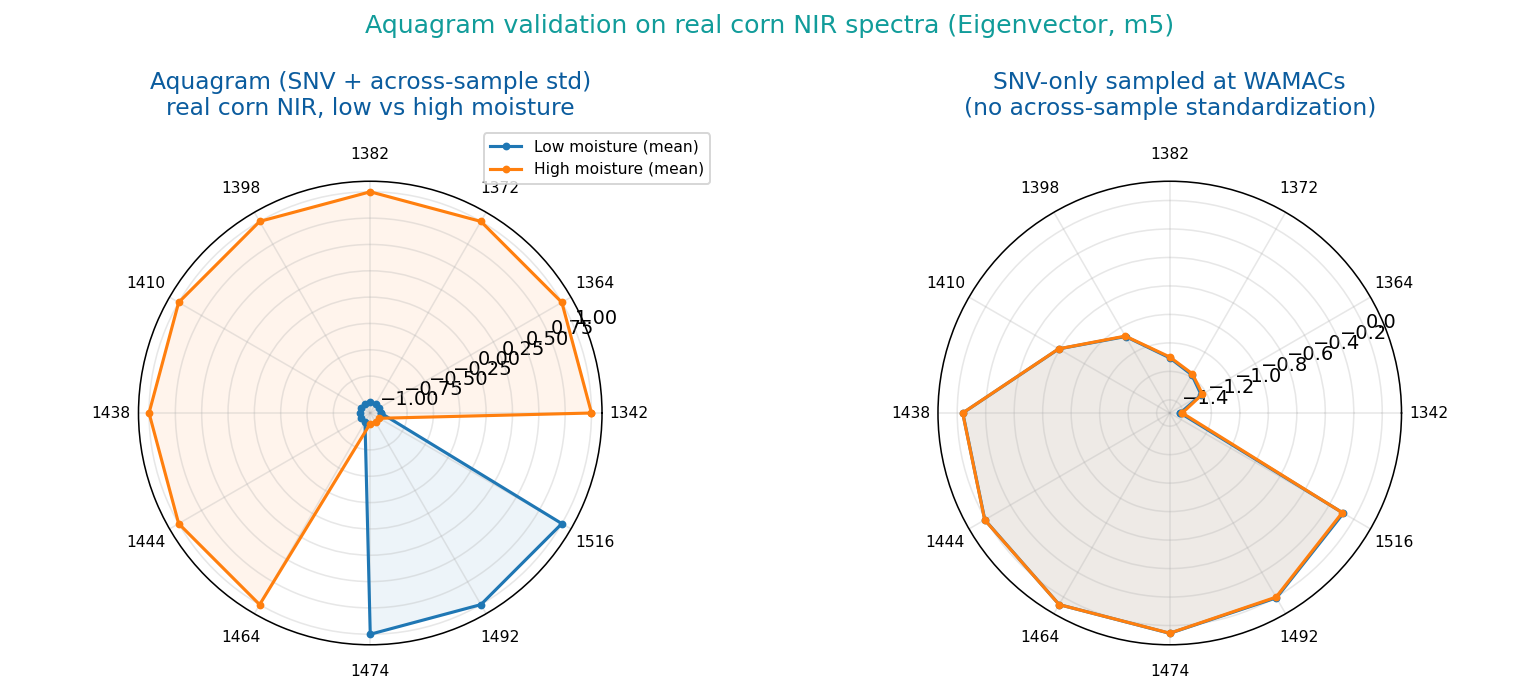
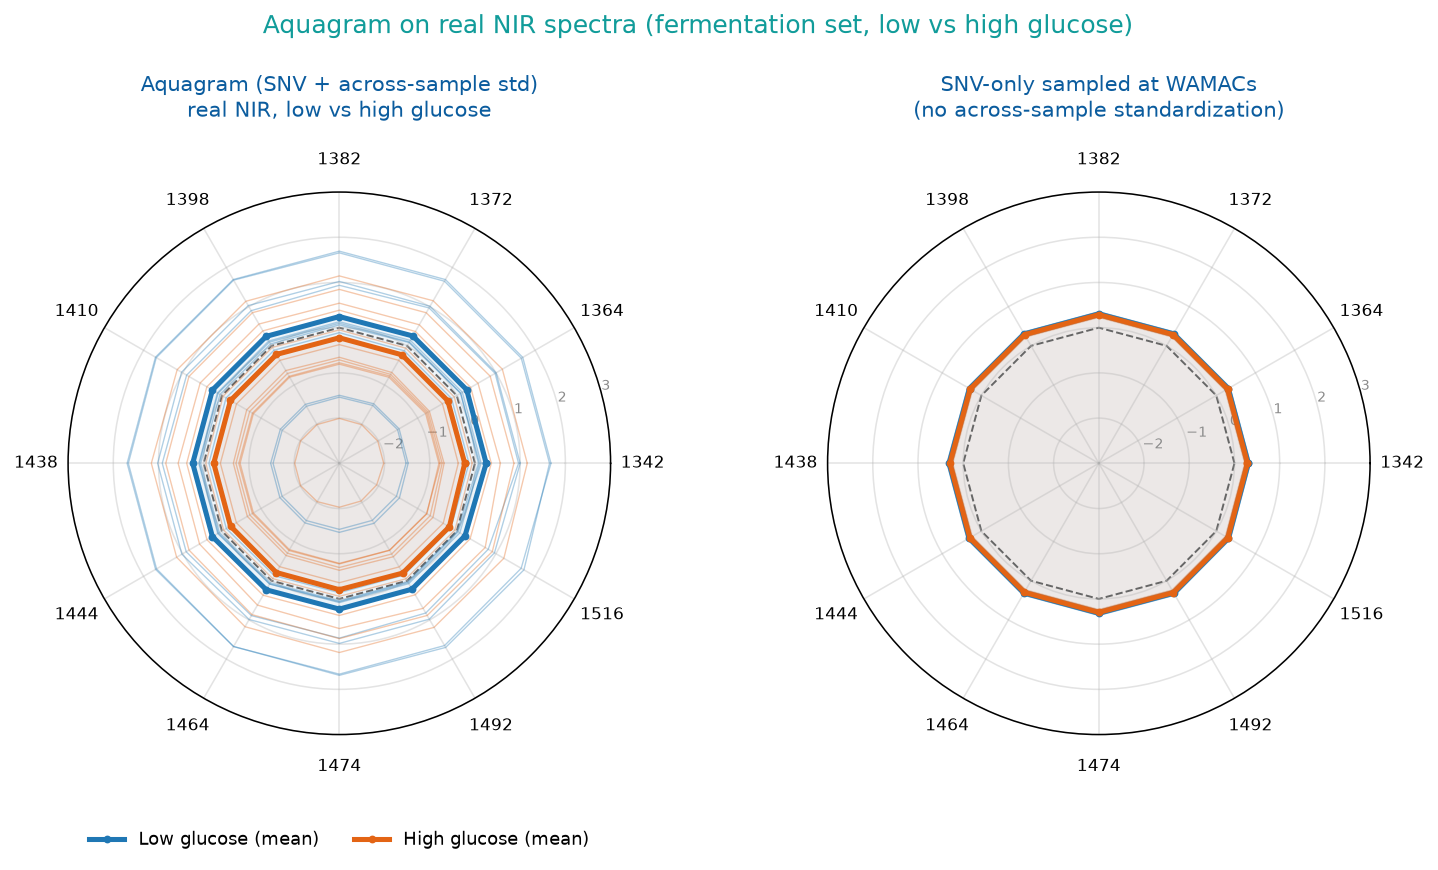
Fix overlapping labels in Library & Aquagram tutorial demo charts
- demo_library.png: regenerated from the real 9-sugar library search
  (unknown_glucose vs sugars_nir.speclib) as a clean horizontal bar chart —
  x-axis 0.65-1.00 so every bar shows, value labels at bar ends, category
  names no longer overlap the numbers.
- demo_aquagram.png: the radial tick labels were crammed onto one spoke and
  unreadable. Regenerated from a real WAMACs-covering NIR set (chemotools
  'fermentation', 21 spectra split by glucose) with readable radial labels
  (integer rings on one grey spoke), WAMAC labels around the ring, bold group
  means over faint individual samples, and a shared radial scale. Tutorial
  captions (zh/en) updated corn -> fermentation to match the data actually
  used for the figure. Added docs/regen_aquagram_demo.py to reproduce it
  offline (pip install chemotools).
- validate_aquagram_real_nir.py: same readable radar layout (per-sample lines
  + group means, radial labels on the 15-deg spoke) for the corn validation
  figure when run with network.

Docs-only; no package version change.

Claude-Session: https://claude.ai/code/session_01RqntGkiqyW9Ncv4yJmwF8A

diff --git a/docs/orange.html b/docs/orange.html
@@ -375,7 +375,7 @@ python -m Orange.canvas</pre>
   <div class="kicker">Live demo · 真實數據跑出結果</div>
   <h2>用內建範例資料實際跑一遍</h2>
   <p class="lead">下面所有圖與數字都是用 repo 內的<b>真實範例資料</b>（<code>examples/sugars_nir.speclib</code>
-     ——9 種糖類／添加物的 NIR 光譜、3 個未知樣品）與真實玉米 NIR，實際用這些 widgets 的演算法跑出來的，
+     ——9 種糖類／添加物的 NIR 光譜、3 個未知樣品）與真實發酵液 NIR，實際用這些 widgets 的演算法跑出來的，
      不是示意圖。你在自己電腦照做會得到一樣的結果。</p>
 
   <div class="wsec">
@@ -419,9 +419,9 @@ python -m Orange.canvas</pre>
   </div>
 
   <div class="wsec">
-    <h3>⑤ Aquagram → 真實玉米 NIR 水光譜雷達圖</h3>
-    <p class="lead">用真實玉米近紅外光譜，在 12 個 WAMACs 取正規化吸光度畫成 aquagram（雷達圖）。</p>
-    <img src="demo_aquagram.png" alt="real corn NIR aquagram" style="width:min(560px,100%);display:block;margin:auto;border-radius:10px;border:1px solid var(--line);">
+    <h3>⑤ Aquagram → 真實發酵液 NIR 水光譜雷達圖</h3>
+    <p class="lead">用真實發酵液近紅外光譜（依葡萄糖濃度分低/高兩組），在 12 個 WAMACs 取正規化吸光度畫成 aquagram（雷達圖）。</p>
+    <img src="demo_aquagram.png" alt="real fermentation NIR aquagram" style="width:min(560px,100%);display:block;margin:auto;border-radius:10px;border:1px solid var(--line);">
   </div>
 </section>
 

diff --git a/docs/orange_en.html b/docs/orange_en.html
@@ -384,7 +384,7 @@ python -m Orange.canvas</pre>
   <h2>Run it on the bundled example data</h2>
   <p class="lead">Every figure and number below was produced by actually running these widgets'
      algorithms on the repo's <b>real example data</b> (<code>examples/sugars_nir.speclib</code> — NIR
-     spectra of 9 sugars/additives, 3 unknown samples) and real corn NIR — not mock-ups. Do the same
+     spectra of 9 sugars/additives, 3 unknown samples) and real fermentation NIR — not mock-ups. Do the same
      on your machine and you get the same results.</p>
 
   <div class="wsec">
@@ -428,9 +428,9 @@ python -m Orange.canvas</pre>
   </div>
 
   <div class="wsec">
-    <h3>⑤ Aquagram → real corn-NIR water aquagram</h3>
-    <p class="lead">Real corn near-infrared spectra: normalized absorbance at the 12 WAMACs drawn as an aquagram (radar plot).</p>
-    <img src="demo_aquagram.png" alt="real corn NIR aquagram" style="width:min(560px,100%);display:block;margin:auto;border-radius:10px;border:1px solid var(--line);">
+    <h3>⑤ Aquagram → real fermentation-NIR water aquagram</h3>
+    <p class="lead">Real fermentation near-infrared spectra (split into low vs high glucose): normalized absorbance at the 12 WAMACs drawn as an aquagram (radar plot).</p>
+    <img src="demo_aquagram.png" alt="real fermentation NIR aquagram" style="width:min(560px,100%);display:block;margin:auto;border-radius:10px;border:1px solid var(--line);">
   </div>
 </section>
 

diff --git a/orange-spectra/validation/validate_aquagram_real_nir.py b/orange-spectra/validation/validate_aquagram_real_nir.py
@@ -83,30 +83,61 @@ for b, hm, lm in zip(WAMACS, high_mean, low_mean):
 print(f"\nMost separated band: {WAMACS[int(np.argmax(np.abs(sep)))]} nm "
       f"(Δ={sep[int(np.argmax(np.abs(sep)))]:+.2f})")
 
-# ---- Radar plot (classic aquagram) ----
-def radar(ax, coords, labels, names, title):
-    n = len(labels)
-    ang = np.linspace(0, 2*np.pi, n, endpoint=False)
-    ang = np.concatenate([ang, ang[:1]])
-    for row, name in zip(coords, names):
-        vals = np.concatenate([row, row[:1]])
-        ax.plot(ang, vals, marker="o", ms=3, lw=1.6, label=name)
-        ax.fill(ang, vals, alpha=0.08)
-    ax.set_xticks(ang[:-1]); ax.set_xticklabels([str(int(l)) for l in labels], fontsize=8)
-    ax.set_title(title, color="#0b5c9e", pad=16)
-    ax.grid(alpha=.3)
+# ---- Radar plot (classic aquagram over the 40 individual samples) ----
+# aggregate SNV coords over the same 40 samples for the comparison panel
+snv_agg = aquagram_coordinates(many, normalization="snv")
 
-fig, axes = plt.subplots(1, 2, figsize=(11, 5), subplot_kw=dict(polar=True))
-radar(axes[0], results["aquagram"]["values"], WAMACS,
-      results["aquagram"]["names"], "Aquagram (SNV + across-sample std)\nreal corn NIR, low vs high moisture")
-# also show snv version for comparison
-radar(axes[1], results["snv"]["values"], WAMACS,
-      results["snv"]["names"], "SNV-only sampled at WAMACs\n(no across-sample standardization)")
-axes[0].legend(loc="upper right", bbox_to_anchor=(1.25, 1.12), fontsize=8)
+
+def radar(ax, coords, labels, title, rlim, n_low):
+    """Plot each sample as a thin line (blue=low, orange=high moisture) plus a
+    bold group mean, with readable radial tick labels on one clear spoke."""
+    n = len(labels)
+    ang = np.linspace(0, 2 * np.pi, n, endpoint=False)
+    angc = np.concatenate([ang, ang[:1]])
+    for i, row in enumerate(coords):
+        col = "#1f77b4" if i < n_low else "#E36414"
+        vals = np.concatenate([row, row[:1]])
+        ax.plot(angc, vals, lw=0.7, color=col, alpha=0.35, zorder=2)
+    for grp, col, lab in ((coords[:n_low], "#1f77b4", "Low moisture (mean)"),
+                          (coords[n_low:], "#E36414", "High moisture (mean)")):
+        m = np.concatenate([grp.mean(0), grp.mean(0)[:1]])
+        ax.plot(angc, m, lw=2.6, color=col, marker="o", ms=3, label=lab, zorder=4)
+        ax.fill(angc, m, color=col, alpha=0.08, zorder=1)
+    ax.plot(angc, np.zeros_like(angc), color="#666", lw=1.0, ls="--", zorder=1)
+    ax.set_xticks(ang)
+    ax.set_xticklabels([str(int(l)) for l in labels], fontsize=8.5)
+    ax.tick_params(axis="x", pad=6)
+    # readable radial axis: integer rings only, labels on the 0° spoke, small grey
+    ax.set_ylim(rlim)
+    lo, hi = int(np.floor(rlim[0])), int(np.ceil(rlim[1]))
+    ax.set_yticks(list(range(lo, hi + 1)))
+    ax.set_rlabel_position(15)
+    ax.tick_params(axis="y", labelsize=7, colors="#8a8a8a")
+    ax.set_title(title, color="#0b5c9e", fontsize=11, pad=18)
+    ax.grid(alpha=.35)
+
+
+# shared radial scale so both panels are comparable and never crop the fill
+_m = float(np.max(np.abs(np.concatenate([V.ravel(), snv_agg["values"].ravel()])))) * 1.10
+_rlim = (-_m, _m)
+
+fig, axes = plt.subplots(1, 2, figsize=(12, 6), subplot_kw=dict(polar=True))
+radar(axes[0], V, WAMACS,
+      "Aquagram (SNV + across-sample std)\nreal corn NIR, low vs high moisture",
+      _rlim, len(low_idx))
+radar(axes[1], snv_agg["values"], WAMACS,
+      "SNV-only sampled at WAMACs\n(no across-sample standardization)",
+      _rlim, len(low_idx))
+axes[0].legend(loc="lower center", bbox_to_anchor=(0.5, -0.24), ncol=2,
+               fontsize=9, frameon=False)
 fig.suptitle("Aquagram validation on real corn NIR spectra (Eigenvector, m5)",
-             fontsize=13, color="#119C9A")
-fig.tight_layout()
-fig.savefig(OUT / "aquagram_real_corn_nir.png", dpi=140, facecolor="white")
+             fontsize=13, color="#119C9A", y=1.03)
+fig.subplots_adjust(wspace=0.4)
+fig.savefig(OUT / "aquagram_real_corn_nir.png", dpi=140, facecolor="white",
+            bbox_inches="tight")
+# save the computed coordinates so the figure can be re-rendered without the dataset
+np.savez(OUT / "aquagram_values.npz", wamacs=np.array(WAMACS),
+         aquagram=V, snv=snv_agg["values"], n_low=len(low_idx))
 print(f"\nSaved radar figure -> {OUT/'aquagram_real_corn_nir.png'}")
 
 # raw group-mean spectra with WAMACs marked (sanity of coverage)

diff --git a/docs/regen_aquagram_demo.py b/docs/regen_aquagram_demo.py
@@ -1,0 +1,76 @@
+"""Regenerate docs/demo_aquagram.png from a REAL NIR dataset (offline-runnable).
+
+Uses the public chemotools 'fermentation' NIR set (21 spectra, 428-1833 nm,
+covers the 12 WAMACs water bands 1342-1516 nm), split by reference glucose into
+low vs high groups. Shows the classic normalized aquagram (left) vs SNV-only
+(right). Run:  pip install chemotools ; python docs/regen_aquagram_demo.py
+"""
+import pathlib, sys
+import numpy as np
+import matplotlib
+matplotlib.use("Agg")
+import matplotlib.pyplot as plt
+
+ROOT = pathlib.Path(__file__).resolve().parents[1]
+sys.path.insert(0, str(ROOT / "orange-spectra"))
+from orangespectra.core import aquagram_coordinates, WAMACS
+
+import chemotools.datasets as d
+X, y = d.load_fermentation_train()
+wl = np.array([float(c) for c in X.columns])
+Xv = X.values.astype(float)
+gluc = y.values.astype(float).ravel()
+
+order = np.argsort(gluc)
+n = len(order); half = n // 2
+low_idx, high_idx = order[:half], order[half:]      # low vs high glucose
+specs = ([{"x": wl, "y": Xv[i], "name": f"low{i}"} for i in low_idx] +
+         [{"x": wl, "y": Xv[i], "name": f"high{i}"} for i in high_idx])
+n_low = len(low_idx)
+V = aquagram_coordinates(specs, normalization="aquagram")["values"]
+snv = aquagram_coordinates(specs, normalization="snv")["values"]
+print(f"{n} spectra; low glucose mean={gluc[low_idx].mean():.1f}, "
+      f"high={gluc[high_idx].mean():.1f} g/L")
+
+
+def radar(ax, coords, title, rlim, n_low):
+    m = len(WAMACS)
+    ang = np.linspace(0, 2 * np.pi, m, endpoint=False)
+    angc = np.concatenate([ang, ang[:1]])
+    for i, row in enumerate(coords):
+        col = "#1f77b4" if i < n_low else "#E36414"
+        ax.plot(angc, np.concatenate([row, row[:1]]), lw=0.7, color=col,
+                alpha=0.35, zorder=2)
+    for grp, col, lab in ((coords[:n_low], "#1f77b4", "Low glucose (mean)"),
+                          (coords[n_low:], "#E36414", "High glucose (mean)")):
+        mm = np.concatenate([grp.mean(0), grp.mean(0)[:1]])
+        ax.plot(angc, mm, lw=2.6, color=col, marker="o", ms=3, label=lab, zorder=4)
+        ax.fill(angc, mm, color=col, alpha=0.08, zorder=1)
+    ax.plot(angc, np.zeros_like(angc), color="#666", lw=1.0, ls="--", zorder=1)
+    ax.set_xticks(ang)
+    ax.set_xticklabels([str(int(l)) for l in WAMACS], fontsize=8.5)
+    ax.tick_params(axis="x", pad=6)
+    ax.set_ylim(rlim)
+    lo, hi = int(np.floor(rlim[0])), int(np.ceil(rlim[1]))
+    ax.set_yticks(list(range(lo, hi + 1)))
+    ax.set_rlabel_position(15)                        # off the 1342 spoke
+    ax.tick_params(axis="y", labelsize=7, colors="#8a8a8a")
+    ax.set_title(title, color="#0b5c9e", fontsize=11, pad=18)
+    ax.grid(alpha=.35)
+
+
+rmax = float(np.max(np.abs(np.concatenate([V.ravel(), snv.ravel()])))) * 1.10
+rlim = (-rmax, rmax)
+fig, axes = plt.subplots(1, 2, figsize=(12, 6), subplot_kw=dict(polar=True))
+radar(axes[0], V, "Aquagram (SNV + across-sample std)\nreal NIR, low vs high glucose",
+      rlim, n_low)
+radar(axes[1], snv, "SNV-only sampled at WAMACs\n(no across-sample standardization)",
+      rlim, n_low)
+axes[0].legend(loc="lower center", bbox_to_anchor=(0.5, -0.24), ncol=2,
+               fontsize=9, frameon=False)
+fig.suptitle("Aquagram on real NIR spectra (fermentation set, low vs high glucose)",
+             fontsize=13, color="#119C9A", y=1.03)
+fig.subplots_adjust(wspace=0.4)
+out = ROOT / "docs" / "demo_aquagram.png"
+fig.savefig(out, dpi=140, facecolor="white", bbox_inches="tight")
+print("saved", out)
